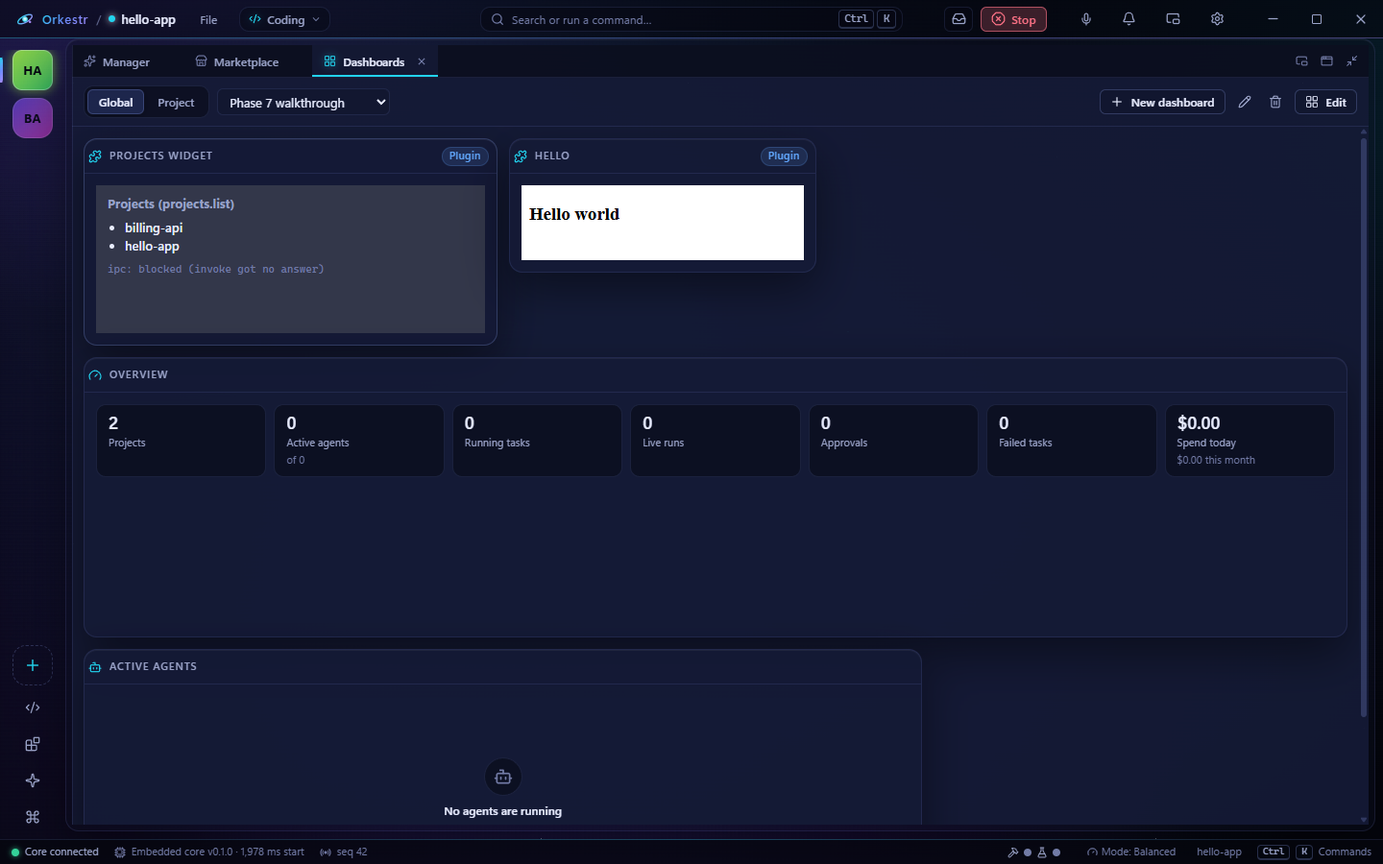
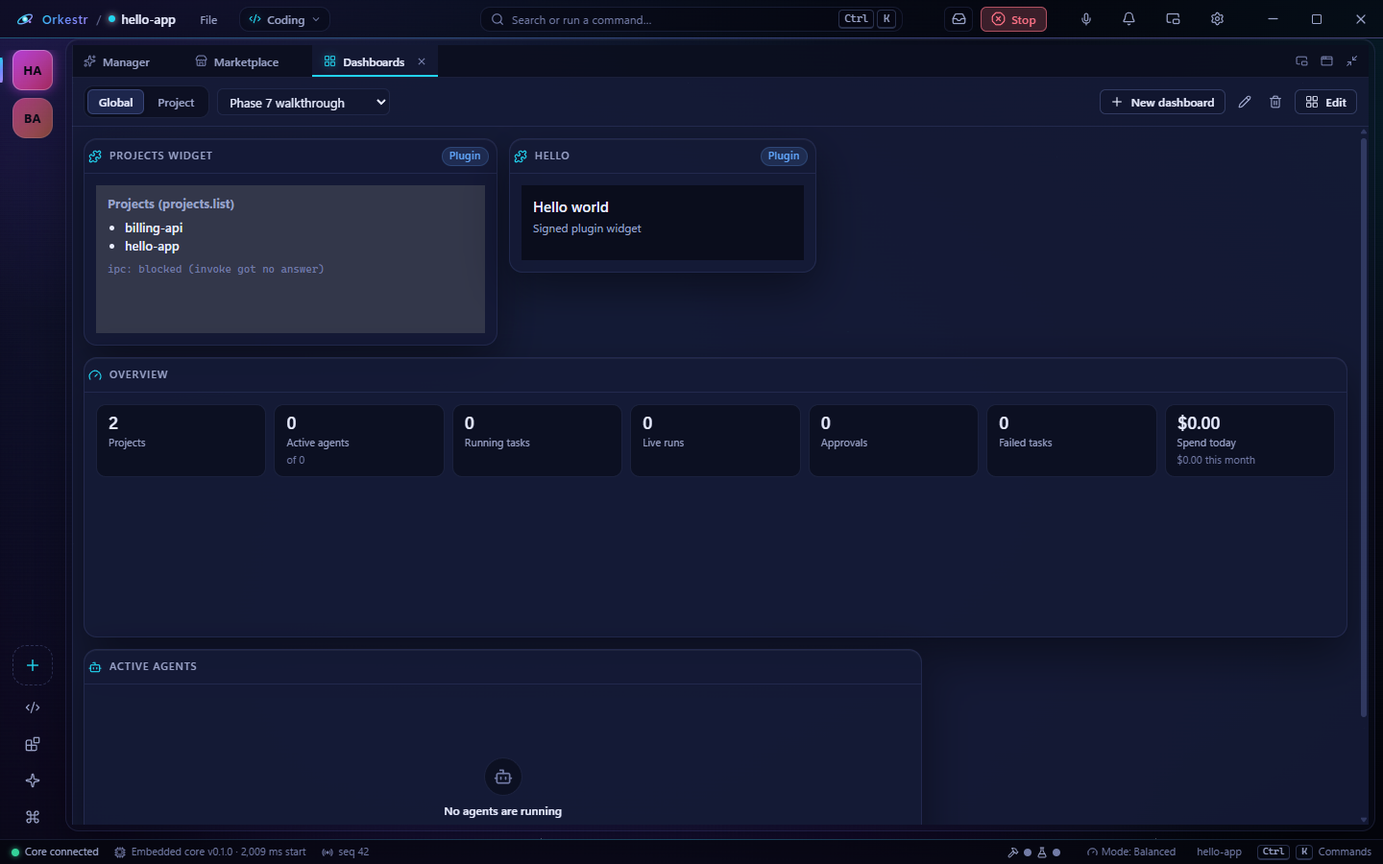
Phase 7 leftovers: regression fix, themed hello widget, docs and acceptance numbers
- events: EventBus::subscribe_internal_all; plugin event delivery uses it so it
  no longer counts as a live client listener (fixes
  second_core_on_same_data_dir_is_refused_and_restart_resumes_seq and lets the
  node heartbeat idle again)
- plugins: hello widget fixture uses the --ok-* theme tokens from init/theme
  (system font fallback); dashboard screenshots re-captured
- docs: README (event subscriptions, DeploymentProvider plugins, alert rules,
  log sources, detective settings), ADR-0034 note, roadmap and mind01 "not
  done" lists trimmed; Phase 7 acceptance 91/91, walkthrough 21/21

Changed region(s): [[0.375, 0.1867, 0.5938, 0.3111], [0.0, 0.0311, 0.0625, 0.1556], [0.1875, 0.9644, 0.2188, 0.9956]]

diff --git a/crates/events/src/bus.rs b/crates/events/src/bus.rs
@@ -1,7 +1,7 @@
 //! The event bus.
 
 use std::collections::BTreeSet;
-use std::sync::atomic::{AtomicU64, Ordering};
+use std::sync::atomic::{AtomicU64, AtomicUsize, Ordering};
 use std::sync::Arc;
 
 use orkestr_protocol::{topic, Event, NewEvent};
@@ -23,6 +23,8 @@ struct Inner {
     publish_lock: Mutex<u64>,
     last_seq: AtomicU64,
     log: Option<Arc<dyn EventLog>>,
+    /// Live internal subscriptions (see [`EventBus::subscribe_internal_all`]).
+    internal: Arc<AtomicUsize>,
 }
 
 /// Cloneable handle to the bus.
@@ -57,7 +59,15 @@ impl EventBus {
 
     fn build(capacity: usize, log: Option<Arc<dyn EventLog>>, last: u64) -> Self {
         let (tx, _) = broadcast::channel(capacity.max(16));
-        Self { inner: Arc::new(Inner { tx, publish_lock: Mutex::new(last), last_seq: AtomicU64::new(last), log }) }
+        Self {
+            inner: Arc::new(Inner {
+                tx,
+                publish_lock: Mutex::new(last),
+                last_seq: AtomicU64::new(last),
+                log,
+                internal: Arc::new(AtomicUsize::new(0)),
+            }),
+        }
     }
 
     /// Publishes an event: assigns `seq`, `id`, `ts` (and the ambient
@@ -92,7 +102,7 @@ impl EventBus {
         I: IntoIterator<Item = S>,
         S: Into<String>,
     {
-        let mut sub = Subscription { rx: self.inner.tx.subscribe(), topics: BTreeSet::new() };
+        let mut sub = Subscription { rx: self.inner.tx.subscribe(), topics: BTreeSet::new(), internal: None };
         sub.add_topics(topics)?;
         Ok(sub)
     }
@@ -102,7 +112,18 @@ impl EventBus {
     pub fn subscribe_all(&self) -> Subscription {
         let mut topics = BTreeSet::new();
         topics.insert(topic::ALL.to_owned());
-        Subscription { rx: self.inner.tx.subscribe(), topics }
+        Subscription { rx: self.inner.tx.subscribe(), topics, internal: None }
+    }
+
+    /// Subscribes to every event for an in-process consumer (e.g. plugin event
+    /// delivery). Such a subscription is not a client listening, so it is not
+    /// counted by [`EventBus::subscriber_count`].
+    #[must_use]
+    pub fn subscribe_internal_all(&self) -> Subscription {
+        let mut sub = self.subscribe_all();
+        self.inner.internal.fetch_add(1, Ordering::SeqCst);
+        sub.internal = Some(InternalGuard(Arc::clone(&self.inner.internal)));
+        sub
     }
 
     /// Last assigned seq (0 when nothing was published).
@@ -125,10 +146,10 @@ impl EventBus {
         }
     }
 
-    /// Number of live subscriptions.
+    /// Number of live client subscriptions (internal ones are not counted).
     #[must_use]
     pub fn subscriber_count(&self) -> usize {
-        self.inner.tx.receiver_count()
+        self.inner.tx.receiver_count().saturating_sub(self.inner.internal.load(Ordering::SeqCst))
     }
 }
 
@@ -145,6 +166,16 @@ pub enum Received {
 pub struct Subscription {
     rx: broadcast::Receiver<Arc<Event>>,
     topics: BTreeSet<String>,
+    internal: Option<InternalGuard>,
+}
+
+/// Decrements the internal-subscription count when its subscription drops.
+struct InternalGuard(Arc<AtomicUsize>);
+
+impl Drop for InternalGuard {
+    fn drop(&mut self) {
+        self.0.fetch_sub(1, Ordering::SeqCst);
+    }
 }
 
 impl std::fmt::Debug for Subscription {
@@ -321,5 +352,21 @@ mod tests {
             bus.publish(NewEvent::new(log_kind(&i.to_string()))).await.unwrap();
         }
         assert!(matches!(sub.recv().await, Some(Received::Lagged(_))));
+    }
+
+    #[tokio::test]
+    async fn internal_subscriptions_receive_events_but_are_not_counted() {
+        let bus = EventBus::in_memory(64);
+        let mut internal = bus.subscribe_internal_all();
+        assert_eq!(bus.subscriber_count(), 0);
+        let client = bus.subscribe_all();
+        assert_eq!(bus.subscriber_count(), 1);
+        bus.publish(NewEvent::new(log_kind("x"))).await.unwrap();
+        assert!(matches!(next_event(&mut internal).await.kind, EventKind::Log(_)));
+        drop(client);
+        assert_eq!(bus.subscriber_count(), 0);
+        drop(internal);
+        let _c = bus.subscribe_all();
+        assert_eq!(bus.subscriber_count(), 1);
     }
 }

diff --git a/crates/plugins/src/fixtures.rs b/crates/plugins/src/fixtures.rs
@@ -57,8 +57,15 @@ fn wasm_files(src: &str) -> Result<BTreeMap<String, Vec<u8>>, PluginError> {
 }
 
 /// Widget HTML of `hello-tool`.
-pub const HELLO_WIDGET_HTML: &str = r#"<!doctype html><html><body><h3 id="t">Hello widget</h3>
-<script>window.addEventListener("message",function(e){var d=e.data||{};if(d.type==="init"){document.getElementById("t").textContent="Hello "+(d.config&&d.config.name||"world");}});parent.postMessage({type:"ready"},"*");</script>
+/// Uses the theme tokens the host sends with `init` / `theme` (`--ok-*`) and
+/// paints the opaque `bg-elevated` token (a transparent iframe canvas is still
+/// white in WebView2); before `init` it falls back to transparent + system font.
+pub const HELLO_WIDGET_HTML: &str = r#"<!doctype html><html><body><style>
+html,body{margin:0;height:100%;box-sizing:border-box;background:var(--ok-color-bg-elevated,transparent);color:var(--ok-color-text,CanvasText);font-family:var(--ok-font-sans,system-ui,-apple-system,"Segoe UI",sans-serif);font-size:var(--ok-font-size-md,14px)}
+body{padding:12px}h3{margin:0 0 4px;font-size:var(--ok-font-size-lg,16px);font-weight:600}p{margin:0;color:var(--ok-color-text-muted,GrayText);font-size:var(--ok-font-size-sm,12px)}
+</style><h3 id="t">Hello widget</h3><p>Signed plugin widget</p>
+<script>function th(t){if(!t)return;for(var k in t){if(/^[a-z0-9-]+$/.test(k)&&typeof t[k]==="string")document.documentElement.style.setProperty("--ok-"+k,t[k]);}}
+window.addEventListener("message",function(e){var d=e.data||{};if(d.type==="init"){th(d.theme);document.getElementById("t").textContent="Hello "+(d.config&&d.config.name||"world");}else if(d.type==="theme"){th(d.theme);}});parent.postMessage({type:"ready"},"*");</script>
 </body></html>"#;
 
 /// Manifest of `hello-tool` (Tool + Widget; asks for one Network grant so the

diff --git a/crates/plugins/src/service.rs b/crates/plugins/src/service.rs
@@ -769,7 +769,7 @@ impl PluginService {
         if self.events_started.swap(true, Ordering::SeqCst) {
             return;
         }
-        let mut sub = self.deps.events.subscribe_all();
+        let mut sub = self.deps.events.subscribe_internal_all();
         let weak = Arc::downgrade(self);
         tokio::spawn(async move {
             while let Some(r) = sub.recv().await {

diff --git a/docs/roadmap/feature-traceability.md b/docs/roadmap/feature-traceability.md
@@ -195,7 +195,7 @@ Section D counts are computed from these delivered columns.
 | Local-Only | §45 | 1 | sync (LocalOnly), storage | Onboarding, Settings | Full | Full | Full | The only storage mode in P1–3 (RR-A8) |
 | Offline-first | §44, §63I | 4 | all | — | Partial | Partial | Partial | P1–3: editor, Git, terminal, Ollama and snapshots work offline (no network dependency in core paths). **P4:** sync outbox keeps changes while the gateway is down and flushes after it returns (acceptance C) |
 | Cross-device continuation | §43, §63C | 4 | sync, core | — | Arch | Arch | Arch | Resume summary and handoff model reused. **P4 delivered Partial:** Seamless Continue (`sync.continueOn` / `sync.resume`: working tree incl. uncommitted files, UI state, task summary); git history is never touched, so the other device needs the repo at the same commit |
-| Plugin SDK | §48 | 7 | (plugin host), security (`Actor::Plugin`) | — | Arch | Arch | Arch | `Plugin` entity and actor kind. Manifest and sandbox per ADR-0034. **P7 (as built):** signed `.orkp`, wasmtime 50 ABI v1 sandbox (fuel, epoch, memory caps, quarantine after 3 traps), grants as permission rules, audited host API, kill switch + safe mode, agent tools `plugin_*`, Rust guest SDK (`crates/plugin-sdk`). Not wired: DeploymentProvider / PlatformIntegration runtime |
+| Plugin SDK | §48 | 7 | (plugin host), security (`Actor::Plugin`) | — | Arch | Arch | Arch | `Plugin` entity and actor kind. Manifest and sandbox per ADR-0034. **P7 (as built):** signed `.orkp`, wasmtime 50 ABI v1 sandbox (fuel, epoch, memory caps, quarantine after 3 traps), grants as permission rules, audited host API, kill switch + safe mode, agent tools `plugin_*`, Rust guest SDK (`crates/plugin-sdk`), event delivery (`subscribes`, PlatformIntegration) and DeploymentProvider plugins as deploy adapters |
 | Widget SDK | §48 | 7 | ui, (plugin host) | — | — | — | — | Phase 7. Widgets get no filesystem or secrets access by default. **P7 (as built):** `@orkestr/widget-sdk` postMessage API; iframe `sandbox="allow-scripts"` + strict CSP (no network), `orkestr-widget` URI scheme in the packaged app; Read-class binding allowlist enforced in the host and in core |
 | Dashboard Builder | §48 | 7 | ui | — | — | — | — | Phase 7. MissionControl tile model (P3) is the precursor. **P7 (as built):** per-project and global dashboards on a 12-column grid with drag / resize, palette of 13 built-ins + plugin widgets, config validated against `configSchema` |
 
@@ -342,28 +342,28 @@ gateway (registry), the Mock provider, a git fixture project (tiny HTTP
 service + a test) and `fixtures/fake-cloud-api.mjs`. Condition waits only;
 `--only E2,E5`; report `acceptance.json`.
 
-<!-- P7-ACCEPTANCE -->**Result: 78/78 checks passed** (+3 informational; E1 6, E2 16, E3 11, E4 8, E5 11, E6 7, E7 10, E8 6, E9 3) on Windows 11, 2026-10-22. Docker deploy runs only with `ORKESTR_P7_DOCKER=1` (otherwise reported as info; verified separately: `--only E5` with Docker 18/18, busybox container healthy, container and image removed afterwards); the `orkestr-widget` scheme was smoke-checked in the packaged app (WebView2); cloud adapters are request-shape verified against `fake-cloud-api.mjs`.<!-- /P7-ACCEPTANCE -->
+<!-- P7-ACCEPTANCE -->**Result: 91/91 checks passed** (+3 informational; E1 6, E2 20, E3 11, E4 8, E5 16, E6 9, E7 12, E8 6, E9 3) on Windows 11, 2026-10-22, after the Phase 7 leftovers (plugin event subscriptions, DeploymentProvider plugins, alert rules / log sources / detective settings over RPC). Packaged-app dashboard walkthrough (`scripts/smoke/phase7-dashboard-screenshots.mjs`, plugin management, kill all, safe mode, Publish): 21/21. Docker deploy runs only with `ORKESTR_P7_DOCKER=1` (otherwise reported as info; verified separately: `--only E5` with Docker 18/18, busybox container healthy, container and image removed afterwards); the `orkestr-widget` scheme was smoke-checked in the packaged app (WebView2); cloud adapters are request-shape verified against `fake-cloud-api.mjs`.<!-- /P7-ACCEPTANCE -->
 
 | Check | What is checked |
 |---|---|
 | E1 — setup | Core, gateway, mock provider, fixture project, fake cloud API |
-| E2 — plugin SDK | `hello-tool` install → `pendingGrants` → grant → an agent calls `plugin_*` tool; tampered / unsigned rejected; undeclared host denied + audited (`PluginCallDenied`); infinite loop trapped under the timeout; `killAll` → `PluginStateChanged` + invoke refused; safe mode survives a restart |
+| E2 — plugin SDK | `hello-tool` install → `pendingGrants` → grant → an agent calls `plugin_*` tool; tampered / unsigned rejected; undeclared host denied + audited (`PluginCallDenied`); infinite loop trapped under the timeout; `killAll` → `PluginStateChanged` + invoke refused; safe mode survives a restart; `hello-subscriber` receives `TaskCreated` only with the `Read event/TaskCreated` grant and not while disabled |
 | E3 — marketplace | Publish template, widget and plugin to the gateway registry; search; template install appears in `templates.list`; untrusted key needs `trustKey`; tampered index, revoked entry and key-change update refused |
 | E4 — widgets / dashboards | `widgets.list` includes the plugin widget; global + project dashboards saved and read back; bindings to a write or `local_only` method rejected; `widgets.bundle` carries the CSP |
-| E5 — deployments | StaticSite healthy + `DeploymentFinished` Succeeded; LocalProcess healthy; Production → `ApprovalRequested`, deploys after approval; Vercel / Netlify / Fly / Kubernetes against the fake API with the token never in logs, `NeedsCredential` without it; Docker runs or is skipped with a reason; rollback |
-| E6 — monitor | Overview CPU / RAM / disk; a check goes down then up → `HealthCheckChanged` + `AlertRaised` / `AlertResolved`; log tail redacted |
-| E7 — Bug Detective | Broken version deployed → alert → `detective.open` from the alert; evidence with stack trace, deployed version and commit; hypothesis; reproduction fails as expected; `approveFix`; the fix on `detective/<id>` makes the tests pass, review runs, `AwaitingMergeApproval` with the project branch untouched |
+| E5 — deployments | StaticSite healthy + `DeploymentFinished` Succeeded; LocalProcess healthy; Production → `ApprovalRequested`, deploys after approval; Vercel / Netlify / Fly / Kubernetes against the fake API with the token never in logs, `NeedsCredential` without it; Docker runs or is skipped with a reason; rollback; a `DeploymentProvider` plugin (`hello-deployer`) appears in `deploy.adapters` while enabled and deploys |
+| E6 — monitor | Overview CPU / RAM / disk; a check goes down then up → `HealthCheckChanged` + `AlertRaised` / `AlertResolved`; log tail redacted; `monitor.ruleUpsert` / `rules` / `ruleDelete` and `sourceAdd` / `sourceRemove` with validation |
+| E7 — Bug Detective | Broken version deployed → alert → `detective.open` from the alert; evidence with stack trace, deployed version and commit; hypothesis; reproduction fails as expected; `approveFix`; the fix on `detective/<id>` makes the tests pass, review runs, `AwaitingMergeApproval` with the project branch untouched; `detective.settings` / `setSettings` round trip; `autoOpenOnAlert` opens an incident from an alert |
 | E8 — security | Emergency stop kills plugins, cancels a deployment and a detective run; a remote viewer is refused `plugins.install` and `deploy.start`; audit records |
 | E9 — deferred | AWS adapter, JS plugins and the `Panel` kind answer `unimplementedFeature` |
 
 | Feature | Spec | ADR | Crates / core | UI | Status |
 |---|---|---|---|---|---|
-| Plugin SDK (#48) | §48 | 0034 | `orkestr-plugins`, `orkestr-plugin-sdk`, `core/rpc/plugins.rs`, `core/plugin_tools.rs` | Marketplace (Installed, permission prompt) | **Done**: signed `.orkp`, trust store, wasmtime ABI v1 (fuel / epoch / memory, quarantine after 3 traps), host API with grants + audit, kill switch, safe mode, `Tool` kind for agents, declarative AgentTemplate / Widget / Mcp, Rust guest SDK + example. **Not done:** DeploymentProvider and PlatformIntegration runtime paths (`subscribes` not delivered) |
+| Plugin SDK (#48) | §48 | 0034 | `orkestr-plugins`, `orkestr-plugin-sdk`, `core/rpc/plugins.rs`, `core/plugin_tools.rs` | Marketplace (Installed, permission prompt) | **Done**: signed `.orkp`, trust store, wasmtime ABI v1 (fuel / epoch / memory, quarantine after 3 traps), host API with grants + audit, kill switch, safe mode, `Tool` kind for agents, declarative AgentTemplate / Widget / Mcp, Rust guest SDK + example, event subscriptions (`subscribes`, `Read event/<Kind>` grant, bounded queue) and DeploymentProvider plugins (`plugin:<pkg>/<provider>` adapters); Marketplace → Plugins (grants, logs, kill all, safe mode, install from file) and Publish tabs. **Not done:** packaging CLI |
 | Agent Marketplace (#1) | §6, §48 | 0040 | `orkestr-marketplace`, `gateway/registry.rs`, `core/rpc/marketplace.rs` | Marketplace | **Done**: official / directory / gateway sources, registry key TOFU, publisher trust + per-package pin, revocation, publish / revoke, install / uninstall |
 | Widget SDK + Dashboard Builder | §48 | 0034 | `packages/widget-sdk`, `core/dashboards_store.rs`, `core/rpc/{dashboards,widgets}.rs` | Dashboards | **Done**: sandboxed iframe + CSP (`orkestr-widget` scheme in the packaged app), Read-only bindings checked in host and core, 12-column builder with config forms |
 | Deployment Agents (#44) + environments (#43) | §26 | 0041 | `orkestr-deploy`, `core/rpc/deploy.rs` | Deployments | **Done** for local targets (StaticSite, LocalProcess; Docker when present); cloud adapters **request-shape verified** only |
-| Live Infrastructure Monitor (#45) | §27 | 0042 | `orkestr-monitor`, `core/rpc/monitor.rs` | Monitoring → Infrastructure | **Done**: metrics, checks, logs, alerts. **Not done:** GPU utilisation, persistent logs, RPC/UI for alert rules and log sources (desktop tail polls every 2 s) |
-| Bug Detective (#46) | §27 | 0042 | `orkestr-detective`, `core/rpc/detective.rs` | Bug Detective | **Done**: full stage machine with two approval gates, evidence, hypothesis, reproduction, fix + tests + review, budget, cancel, restart handling. **Not done:** RPC/UI for detective settings (auto-open stays off); the panel diff is two-dot `HEAD..detective/<id>` |
+| Live Infrastructure Monitor (#45) | §27 | 0042 | `orkestr-monitor`, `core/rpc/monitor.rs` | Monitoring → Infrastructure | **Done**: metrics, checks, logs, alerts; alert rules (`monitor.rules` / `ruleUpsert` / `ruleDelete`) and file log sources (`monitor.sourceAdd` / `sourceRemove`) with UI tabs. **Not done:** GPU utilisation, persistent logs (desktop tail polls every 2 s) |
+| Bug Detective (#46) | §27 | 0042 | `orkestr-detective`, `core/rpc/detective.rs` | Bug Detective | **Done**: full stage machine with two approval gates, evidence, hypothesis, reproduction, fix + tests + review, budget, cancel, restart handling. Settings over RPC + UI (`detective.settings` / `setSettings`: budget, fix attempts, auto-open on alert). **Not done:** the panel diff is two-dot `HEAD..detective/<id>` |
 
 Deferred with reasons (ADR-0034 / 0040 / 0041 / 0042; RR-G14
 `unimplementedFeature`):

diff --git a/mind01.md b/mind01.md
@@ -15,7 +15,7 @@
 Приёмка: фаза 1 — 45/45, фаза 2 — 47/47 (в регрессиях без скриншотов — 46/46), фаза 3 — 64/64, фаза 4 — 40/40,
 фаза 5 — <!-- P5-ACCEPTANCE --> Node-лейн 44/44, Android-лейн 11/11 (эмулятор orkestr_pixel, включая шаг-ап отпечатком) <!-- /P5-ACCEPTANCE -->,
 фаза 6 — 47/47 (`phase6-acceptance.mjs`, C1–C9),
-фаза 7 — <!-- P7-ACCEPTANCE -->78/78<!-- /P7-ACCEPTANCE --> (`scripts/smoke/phase7-acceptance.mjs`, E1–E9).
+фаза 7 — <!-- P7-ACCEPTANCE -->91/91<!-- /P7-ACCEPTANCE --> (`scripts/smoke/phase7-acceptance.mjs`, E1–E9), прогон дашбордов в упакованном приложении 21/21 (`phase7-dashboard-screenshots.mjs`).
 Подробности и списки отложенного — `docs/roadmap/feature-traceability.md` (разделы «Phase N acceptance check») и `docs/roadmap/mvp-milestones.md`.
 
 **Кратко по сессии (фазы 4–7):**
@@ -29,7 +29,7 @@
 - **Фаза 4 — отложено:** DPoP, одобрение новых устройств с admin-устройства, device-code flow, mTLS/CA, TLS/ACME (шлюз за TLS-прокси), PostgreSQL/S3 и мульти-инстанс, ключ восстановления и ротация ключей синхронизации, трёхстороннее слияние, PWA с подписью/SRI, контейнерный образ, OTLP, Visual Browser Agent (#17). **Не проверено вживую:** Web Push через настоящие сервисы (только мок).
 - **Фаза 5 — отложено:** iOS (нужен macOS + Xcode); вход по passkey на телефоне; распознавание речи и wake word на устройстве; подробный текст на экране блокировки и одобрение прямо из уведомления (нужна фоновая расшифровка); аппаратные неэкспортируемые ключи (сейчас ключи в SecureStore, расшифровываются в память JS при подписи). **Не проверено вживую:** настоящая доставка FCM/APNs (только мок-серверы); отпечаток на эмуляторе может требовать ручной регистрации (`adb emu finger touch 1`); откат `claude.exe` (`/rewind`, `--resume-session-at`) на настоящем Claude Code; «Открыть в VS Code» тот же чат в реальном VSCodium.
 - **Фаза 6 — отложено:** доставка секретов на ноду (HPKE; задания с secrets — Infeasible), вытеснение критических заданий, Service-задания, прямой LAN mTLS, отказоустойчивость координатора и сверка аренд после его перезапуска, перенос сессий Claude Code/Codex (только handoff), UI нод на web/mobile, chunk store для чекпоинтов. **Не проверено вживую:** настоящий macOS-узел (симулируется профилем и фейковым `xcodebuild`), настоящий GPU-узел.
-- **Фаза 7 — отложено:** JS/QuickJS-плагины, виды плагинов Provider и Panel, автообновление плагинов, сеть для виджетов, адаптеры AWS/GCP/Azure/Cloudflare, деплой в контейнерной песочнице, создание PR на GitHub, публичный маркетплейс (рейтинги, оплата), приём внешних APM (Sentry), редактирование дашбордов на web/mobile, Computer Control (ADR-0035). **Не доделано:** runtime для плагинов DeploymentProvider и PlatformIntegration (`subscribes` не доставляются); нет кнопок kill switch / safe mode / публикации (только RPC); нет CLI для упаковки плагина (`orkestr_plugins::package::build`, пример — `make-fixtures`); монитор — логи только в памяти, нет загрузки GPU, нет RPC/UI для правил алертов, источников логов и настроек детектива (автооткрытие по алерту выключено); диф в панели детектива двухточечный `HEAD..detective/<id>`; LocalProcess не перезапускается после рестарта ядра. **Не проверено вживую:** облачные деплои на настоящих аккаунтах (только фейковый API), Docker-деплой (зависит от наличия docker), Bug Detective с настоящим провайдером (в приёмке — сценарный мок), плагинный виджет в упакованном приложении WebView2 вручную.
+- **Фаза 7 — отложено:** JS/QuickJS-плагины, виды плагинов Provider и Panel, автообновление плагинов, сеть для виджетов, адаптеры AWS/GCP/Azure/Cloudflare, деплой в контейнерной песочнице, создание PR на GitHub, публичный маркетплейс (рейтинги, оплата), приём внешних APM (Sentry), редактирование дашбордов на web/mobile, Computer Control (ADR-0035). **Доделано после приёмки:** доставка событий плагинам (`subscribes`) и плагины DeploymentProvider; управление плагинами в Marketplace (гранты, логи, kill switch, safe mode, установка из файла) и вкладка «Публикация»; правила алертов, источники логов и настройки детектива через RPC + UI; прогон дашбордов в упакованном приложении (`phase7-dashboard-screenshots.mjs`). **Не доделано:** нет CLI для упаковки плагина (`orkestr_plugins::package::build`, пример — `make-fixtures`); монитор — логи только в памяти, нет загрузки GPU; диф в панели детектива двухточечный `HEAD..detective/<id>`; LocalProcess не перезапускается после рестарта ядра. **Не проверено вживую:** облачные деплои на настоящих аккаунтах (только фейковый API), Docker-деплой (зависит от наличия docker), Bug Detective с настоящим провайдером (в приёмке — сценарный мок).
 
 **Установлено на этом компьютере:** Rust (через `winget install Rustlang.Rustup`; при необходимости добавить `%USERPROFILE%\.cargo\bin` в PATH); Node.js 24; Docker 29.4 (есть, но тесты на него не рассчитывают); JDK 21 Temurin (`JAVA_HOME` = `C:\Program Files\Eclipse Adoptium\jdk-21.0.11.10-hotspot`); Android SDK без Android Studio в `%LOCALAPPDATA%\Android\Sdk` (`ANDROID_HOME`; platforms 36/37, build-tools 36/37, NDK 27.1.12297006, cmake 3.22.1, образ android-36 x86_64, AVD `orkestr_pixel`); ninja в `%ANDROID_HOME%\cmake\3.22.1\bin\ninja.exe` заменён на 1.12.1 (длинные пути); включены длинные пути Windows. Собирать прямо из `apps\mobile\android` (не через `subst`). Для своих плагинов: `rustup target add wasm32-unknown-unknown`.
 

diff --git a/docs/roadmap/mvp-milestones.md b/docs/roadmap/mvp-milestones.md
@@ -24,7 +24,7 @@ the Widget SDK and Dashboard Builder; environments and deployments (local
 targets live, cloud adapters request-shape verified, guarded production
 deploys, rollback); the infrastructure monitor; and the Bug Detective with
 two human gates (ADR-0034, ADR-0040, ADR-0041, ADR-0042). Acceptance:
-<!-- P7-ACCEPTANCE -->78/78<!-- /P7-ACCEPTANCE --> (`scripts/smoke/phase7-acceptance.mjs`;
+<!-- P7-ACCEPTANCE -->91/91<!-- /P7-ACCEPTANCE --> (`scripts/smoke/phase7-acceptance.mjs`; packaged-app dashboard walkthrough 21/21;
 details and the deferred list in `feature-traceability.md` → "Phase 7
 acceptance check").
 
@@ -71,7 +71,7 @@ verification on `main`:
 | 4 Remote & Sync | **Complete for the self-hosted MVP** (40/40, 2026-10-22: scenarios D and C) | Self-hosted gateway (passkeys + TOTP, CIK-signed tunnel, pairing with codeMac + SAS, `e2e-v1`, roles + MethodPolicy, step-up, revoke, kill switch, rate limits, audit); web client (sign-in, pairing, projects, tasks, approvals with step-up, remote terminal, editor, en/ru); encrypted working-tree sync with Seamless Continue, conflict copies and an offline outbox; Web Push (RFC 8291 + VAPID); desktop Remote & Sync settings | Web editor is a textarea; sync covers the working tree + `records:` only (no events / snapshots / artifacts streams, no 3-way merge); Web Push verified with a local mock endpoint only | Deferred with reasons in ADR-0030/0031/0036: mTLS/CA (replaced by the CIK-signed tunnel), TLS/ACME (run behind a TLS proxy), device-code flow, admin-device approval, DPoP; PostgreSQL/S3 and multi-instance; HPKE conformance, recovery key, key rotation; PWA signature/SRI; container image. Phase 4b (not started): M4.5/M4.6, OTLP, Visual Browser Agent (#17) |
 | 5 Mobile | **Complete for Android** (scenario E; acceptance: see `feature-traceability.md`) | `apps/mobile` Expo/RN dev build: TOTP login, cores list, QR / deep-link pairing with SAS, monitoring, Emergency Stop + remote kill switch, approvals with biometric step-up (`orkestr-native-v1`, ADR-0038), Manager chat, voice through core `voice.transcribe` + shared intent parser, quick review (tasks, diff, logs), devices + revoke, settings, en/ru; `nobleCrypto` provider behind the `RemoteCrypto` seam; native push FCM HTTP v1 + APNs with AES-256-GCM payloads (ADR-0037); local notifications while connected | Editor is a textarea; keys are SecureStore-wrapped software keys (not hardware non-exportable); FCM/APNs verified with mock servers only; lock-screen alert always generic | Deferred with reasons in ADR-0032/0037/0038: iOS build (needs macOS + Xcode), real FCM/APNs delivery, passkey login on mobile, on-device STT and wake word, background decryption (detailed lock screen, approve from notification), hardware non-exportable keys, DPoP, admin-device approval; multi-node is Phase 6 |
 | 6 Multi-node | **Complete for the simulated cluster** (scenario F; acceptance: see `feature-traceability.md`) | Node enrollment via `kind: "node"` pairing with SAS + trust levels (restricted / standard / trusted), revoke, drain, policy; registry with health Online / Suspect / Offline / Draining / Revoked; gateway-relayed core-to-core E2E with the P-256 CIK; pull heartbeat + leases with epochs and fencing; deterministic scheduler with stored explanations; `command` and `agentTask` jobs (Mock / Ollama); checkpoints (git bundle, dirty tree, handoff, agent state, side-effect log) as content-addressed blobs; planned + unplanned migration; side effects → `needs_user_decision`; coordinator-signed policy snapshots; local model store + `models.distribute` + Ollama adapter; emergency stop on all nodes; desktop Nodes panel (en/ru) | macOS node is profile-simulated (`ORKESTR_NODE_PROFILE` + fake `xcodebuild`); GPU node simulated in acceptance (real `nvidia-smi` detection informational) | Deferred with reasons in ADR-0033/0039: HPKE per-job secrets, preemption, `service` jobs, LAN mTLS, coordinator failover, portable Claude Code / Codex sessions, mobile / web node UI, sync chunk store for checkpoints |
-| 7 Ecosystem | **Complete for local targets and self-hosted registries** (acceptance: see `feature-traceability.md`) | Plugin SDK: signed `.orkp`, trust store, wasmtime 50 ABI v1 sandbox (fuel, epoch deadline, memory cap, quarantine after 3 traps), host API with grants as permission rules + audit, kill switch, safe mode, agent tools `plugin_*`, Rust guest SDK; Marketplace: official / directory / gateway registries, registry key TOFU, publisher trust + per-package pin, revocation, publish / revoke, Marketplace panel; Widget SDK (iframe sandbox + CSP, `orkestr-widget` scheme) + Dashboard Builder; environments + deployments (StaticSite, LocalProcess, Docker when present; guard approvals, redacted logs, rollback), Deployments panel; infra monitor (metrics, checks with hysteresis, log sources, alerts); Bug Detective (evidence, hypothesis, reproduction, gated fix and merge, budget) | Vercel / Netlify / Fly / Kubernetes verified against a fake API only; monitor logs memory-only, no GPU utilisation, no RPC/UI for alert rules, log sources and detective settings; DeploymentProvider / PlatformIntegration plugin runtime not wired | Deferred with reasons in ADR-0034/0040/0041/0042: JS plugins, Provider / Panel kinds, auto-update, widget network, AWS / GCP / Azure / Cloudflare, live cloud runs, container sandbox for deploys, GitHub PRs, hosted marketplace, APM ingestion, mobile / web dashboards, Computer Control (ADR-0035) |
+| 7 Ecosystem | **Complete for local targets and self-hosted registries** (acceptance: see `feature-traceability.md`) | Plugin SDK: signed `.orkp`, trust store, wasmtime 50 ABI v1 sandbox (fuel, epoch deadline, memory cap, quarantine after 3 traps), host API with grants as permission rules + audit, kill switch, safe mode, agent tools `plugin_*`, Rust guest SDK, event subscriptions (`subscribes`) and DeploymentProvider plugins, plugin management in the Marketplace panel (grants, logs, kill all, safe mode, install from file, Publish tab); Marketplace: official / directory / gateway registries, registry key TOFU, publisher trust + per-package pin, revocation, publish / revoke, Marketplace panel; Widget SDK (iframe sandbox + CSP, `orkestr-widget` scheme) + Dashboard Builder; environments + deployments (StaticSite, LocalProcess, Docker when present; guard approvals, redacted logs, rollback), Deployments panel; infra monitor (metrics, checks with hysteresis, log sources, alerts; alert rules and file log sources editable over RPC + UI); Bug Detective (evidence, hypothesis, reproduction, gated fix and merge, budget; settings over RPC + UI); dashboard walkthrough in the packaged app | Vercel / Netlify / Fly / Kubernetes verified against a fake API only; monitor logs memory-only, no GPU utilisation; no plugin packaging CLI | Deferred with reasons in ADR-0034/0040/0041/0042: JS plugins, Provider / Panel kinds, auto-update, widget network, AWS / GCP / Azure / Cloudflare, live cloud runs, container sandbox for deploys, GitHub PRs, hosted marketplace, APM ingestion, mobile / web dashboards, Computer Control (ADR-0035) |
 
 The delivered level of every §68 item is in `feature-traceability.md`. As
 of the final audit, 41 items are Full, 22 Partial, 16 architecture-only and

diff --git a/README.md b/README.md
@@ -9,7 +9,7 @@ contributor follows are in [`docs/ENGINEERING_CONTRACT.md`](docs/ENGINEERING_CON
 > Status: **Phases 0–7 complete on Windows** (Phase 5 for Android). Phase 7
 > (Ecosystem: signed plugins in a wasmtime sandbox, marketplace registries,
 > widgets and dashboards, deployments, infrastructure monitor, Bug Detective)
-> passed its acceptance run <!-- P7-ACCEPTANCE -->78/78<!-- /P7-ACCEPTANCE --> —
+> passed its acceptance run <!-- P7-ACCEPTANCE -->91/91<!-- /P7-ACCEPTANCE --> —
 > see [Ecosystem](#ecosystem-phase-7). Cloud deploy adapters (Vercel, Netlify,
 > Fly, Kubernetes) are verified against a fake API only. Phase 6
 > (Multi-node: worker enrollment with SAS, scheduler, cross-node jobs with
@@ -554,6 +554,14 @@ by default) and memory (64 MB). A plugin that crashes three times in a row is
 quarantined. Agents see plugin tools as `plugin_<package>__<tool>`; both the
 agent's permissions and the plugin's grants apply.
 
+Plugins can also react to events and deploy. A plugin that lists event kinds
+in `subscribes` (for example `TaskCreated`) receives them once you allow its
+`Read event/<Kind>` request; only non-sensitive kinds can be subscribed, each
+plugin has a bounded queue, and disable, kill and safe mode stop delivery. A
+`DeploymentProvider` plugin adds its providers to **Deployments** as
+`plugin:<package>/<provider>` targets while it is enabled; credentials reach it
+only through granted secrets. Details: ADR-0034 §12–13.
+
 Only signed packages from trusted publisher keys install. To trust keys at
 startup, set `ORKESTR_PLUGINS_TRUSTED_KEYS` (comma-separated base64 public
 keys). For plugin development only, `ORKESTR_PLUGINS_DEV=1` also accepts
@@ -655,7 +663,10 @@ computer and enrolled nodes, health checks (HTTP or TCP; add them here),
 alerts (acknowledge them) and live logs from files, deployments and
 `monitor.ingest`. Logs are kept in memory only (10 000 lines per source) and
 secrets are masked. Default alerts: a check is down, CPU / memory / disk
-above 95 %, a burst of errors in the logs.
+above 95 %, a burst of errors in the logs. The *Alert rules* tab adds, edits,
+disables and deletes rules (metric threshold, check down, log rate for a
+pattern); deleted default rules stay deleted. The *Log sources* tab adds and
+removes log files (absolute path to an existing file).
 
 ### Bug Detective
 
@@ -666,7 +677,9 @@ the stack-trace lines), asks the model for a root-cause hypothesis and runs
 the reproduction. Then it waits for **your first approval** before an agent
 writes a fix on branch `detective/<id>` in its own worktree; tests and a
 review follow. Nothing is merged until **your second approval**. You can
-cancel at any stage.
+cancel at any stage. *Settings* sets the default budget, the number of fix
+attempts and whether a new alert on a project opens an incident by itself
+(off by default).
 
 ### Phase 7 acceptance
 

diff --git a/docs/adr/0034-plugin-and-widget-sandbox.md b/docs/adr/0034-plugin-and-widget-sandbox.md
@@ -133,7 +133,9 @@ stoppable at once, independently of providers (contract §6).
     the grant **`Read` with scope `event/<Kind>`**, requested in
     `permissions` like any grant; without it (or when denied) the event is
     not delivered and counted as `denied`. The host subscribes to the bus
-    once (`PluginService::start_event_delivery`, wired at boot); the bus side
+    once (`PluginService::start_event_delivery`, wired at boot) with an
+    internal subscription (`EventBus::subscribe_internal_all`, not counted as a
+    live client listener, so the node heartbeat can still idle); the bus side
     only pushes into a **bounded per-plugin queue (64, drop-oldest, counted
     as `dropped`)** and never waits on plugin code. One worker per plugin
     drains it, calling `orkestr_on_event` with `{"event": <envelope>}` (the
